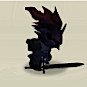
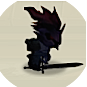
Unit card styling

diff --git a/css/styles.css b/css/styles.css
@@ -1,11 +1,13 @@
 .unit {
     width: 260px;
-    outline: 1px solid black;
-    display: inline-block; 
+    border-radius: 8px;
+    box-shadow: 0 0 0 1px black;
+    display: inline-block;
+    background: #D1D1BA;
 }
 
 .unit-top {
-    outline: 1px solid green;
+
 }
 
 .unit-bottom {
@@ -56,6 +58,8 @@
 
 .unit-row-title {
     text-align: center;
+    font-size: .8em;
+    font-weight: 800;
     margin: 0 0 4px 0;
 }
 
